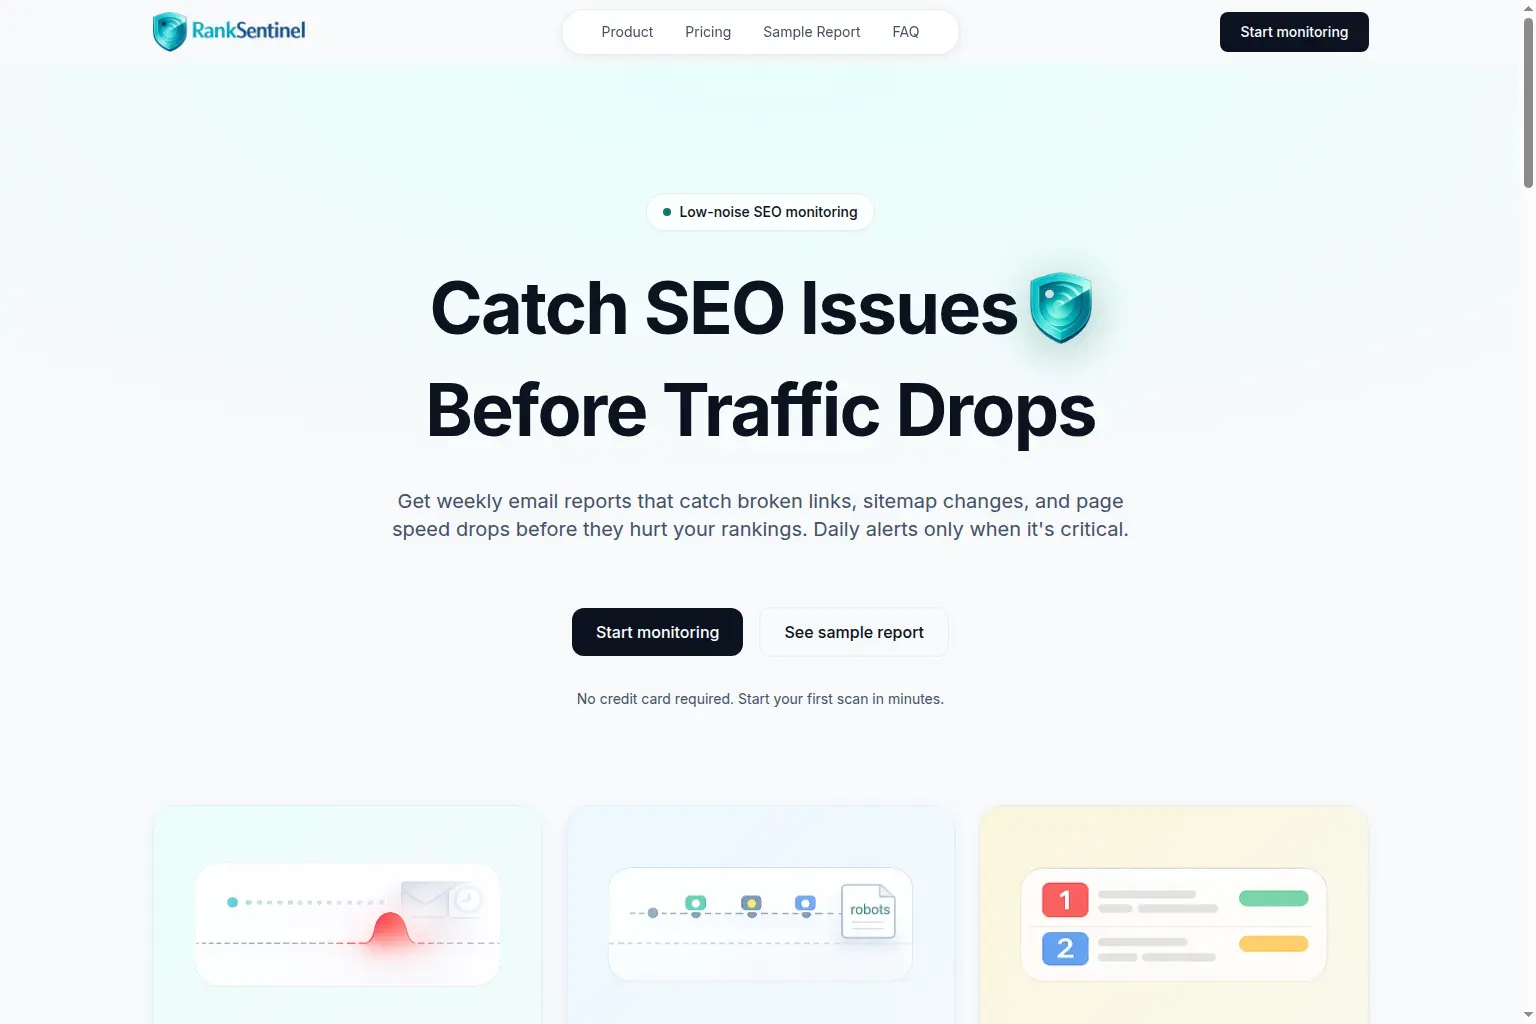
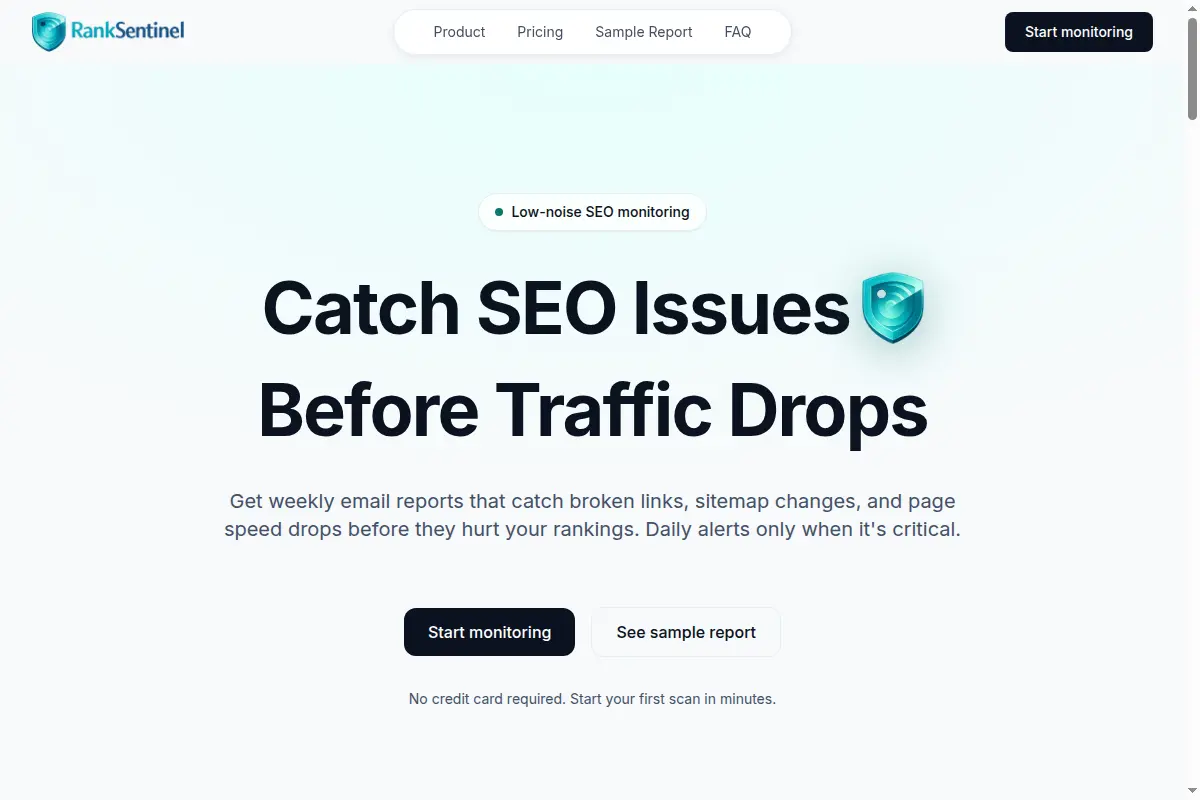
feat: add PC Quanti to portfolio, refresh RankSentinel screenshot
Replace consultancy website mockup with live pcquanti.co.za site.
Update both PC Quanti and RankSentinel screenshots at 3:2 aspect
ratio with navbar visible. Align alt text to design-description
style used across all portfolio entries.

diff --git a/website/src/pages/Portfolio.tsx b/website/src/pages/Portfolio.tsx
@@ -8,7 +8,7 @@ import jacquiHowles from "@/assets/portfolio/jacquichowles.webp";
 import rankSentinel from "@/assets/portfolio/ranksentinel.webp";
 
 import salon from "@/assets/portfolio/salon.webp";
-import consultant from "@/assets/portfolio/consultancy.webp";
+import pcQuanti from "@/assets/portfolio/pcquanti.webp";
 
 type Item = {
   src: string;
@@ -19,7 +19,7 @@ type Item = {
 
 const items: Item[] = [
   // Requested ordering (top-left -> bottom-right):
-  // ReachRight. Deene Social. JacquiHowles. Cafe. Consultancy. Hairsalon.
+  // ReachRight. Deene Social. JacquiHowles. RankSentinel. PC Quanti. Hairsalon.
   {
     src: reachright,
     alt: "ReachRight Marketing – Bold, modern, marketing design",
@@ -40,13 +40,15 @@ const items: Item[] = [
   },
   {
     src: rankSentinel,
-    alt: "RankSentinel – Low-noise SEO monitoring platform",
+    alt: "RankSentinel – Sharp, focused, technical SaaS design",
     link: "https://ranksentinel.co/",
     live: true,
   },
-{
-    src: consultant,
-    alt: "Consultancy website mockup – modern professional design",
+  {
+    src: pcQuanti,
+    alt: "PC Quanti – Dark, structured, corporate engineering design",
+    link: "https://pcquanti.co.za/",
+    live: true,
   },
   {
     src: salon,
